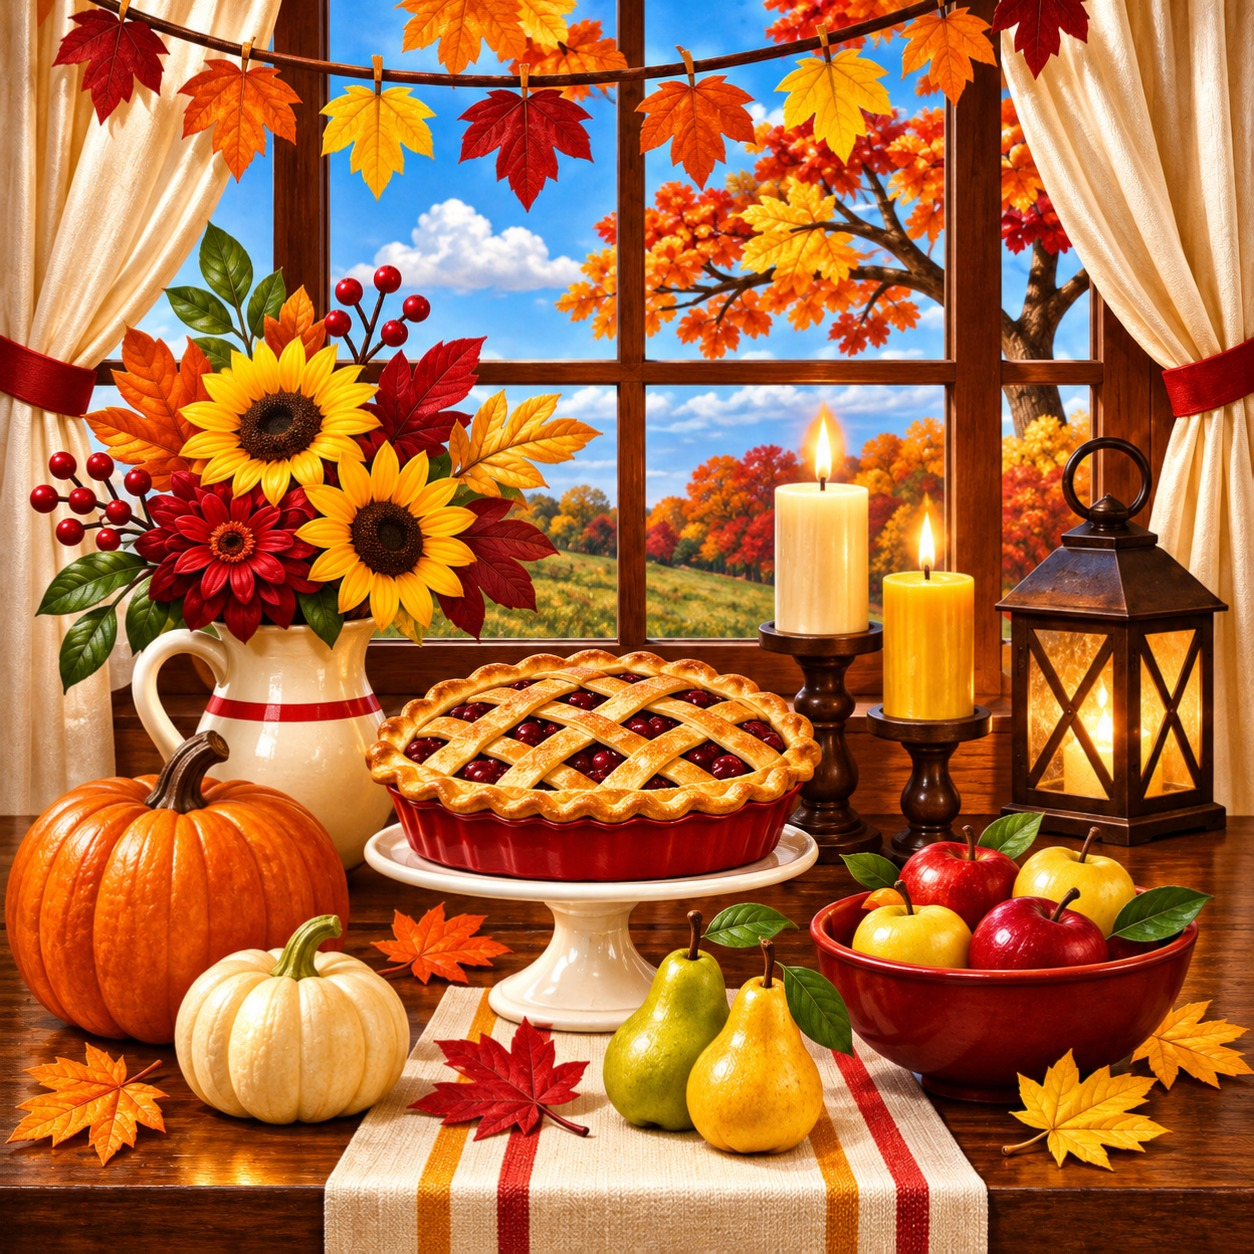
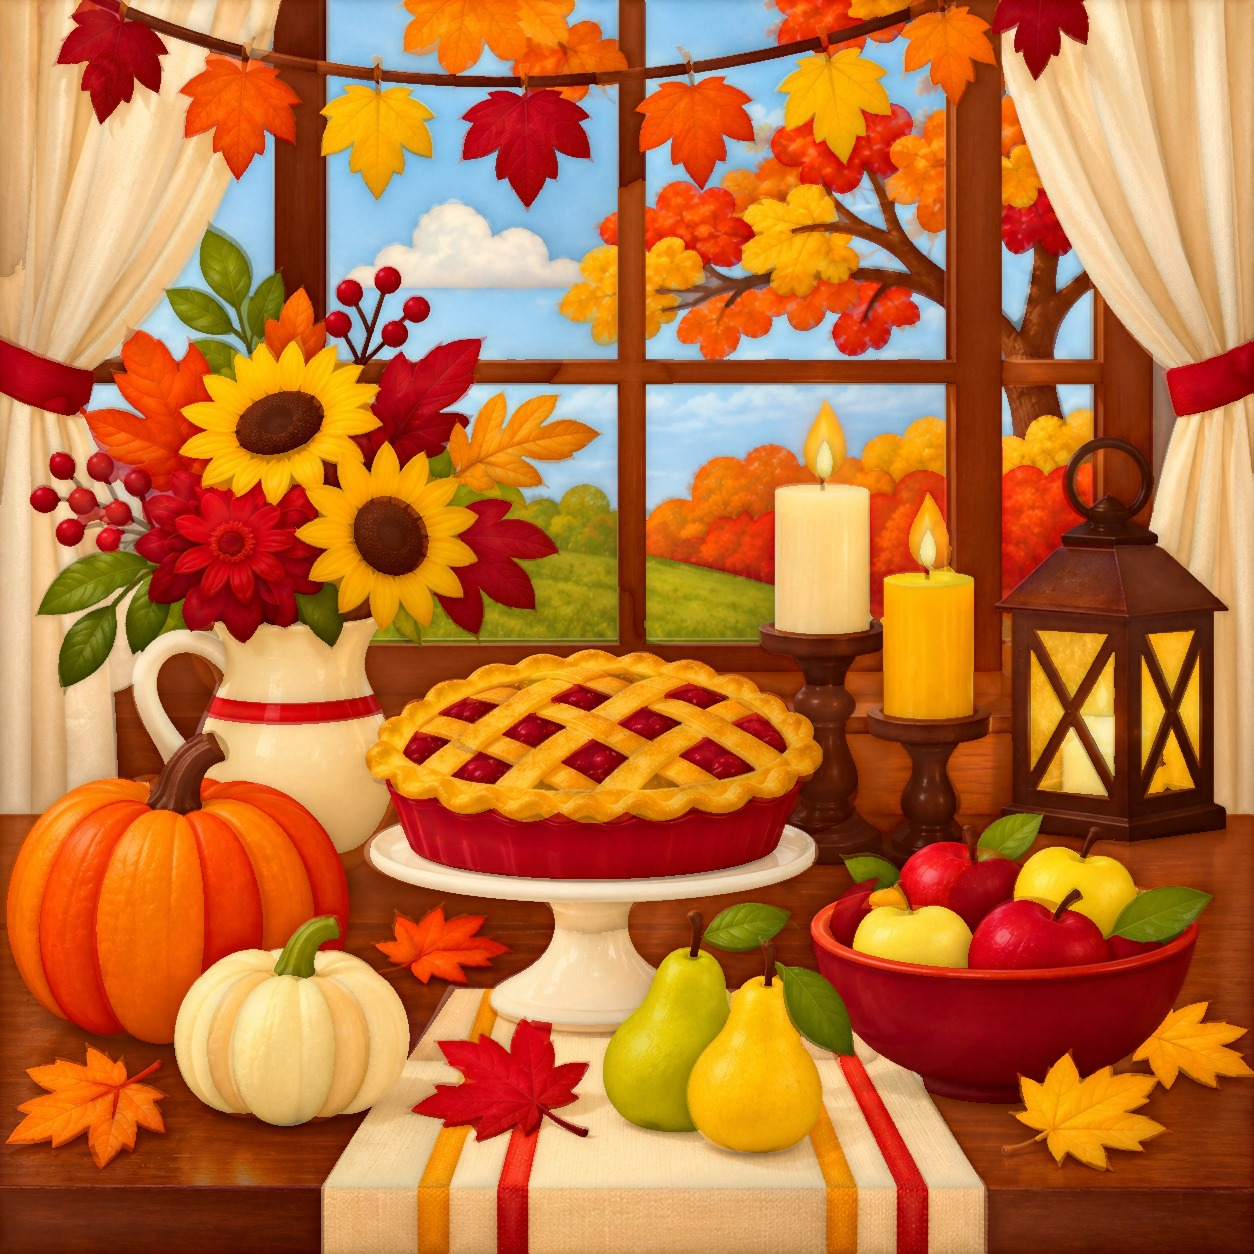
Thanksgiving Window: stronger shading mixed with the real repaint
shade_page.py gains --mix: blend some of the real repaint (kept in
pages/rich by rich_page.py) into the computed shading. Thanksgiving
Window uses --depth 1.45 --rich 1.25 --mix 0.35: mostly the rounded,
glowing shading, with a little painted texture. Pieces unchanged.

Claude-Session: https://claude.ai/code/session_01X4jKmC36k778ncv5ZPyc4q

diff --git a/tools/shade_page.py b/tools/shade_page.py
@@ -1,7 +1,7 @@
 #!/usr/bin/env python3
 """Paint depth into a flat-colour page: what a tap reveals becomes shaded and rich instead of flat.
 
-  python3 tools/shade_page.py <slug> [<slug> ...] [--depth 1.0] [--rich 1.0]
+  python3 tools/shade_page.py <slug> [<slug> ...] [--depth 1.0] [--rich 1.0] [--mix 0.35]
 
 For a page built by flat_page.py from flat art only. Reads the pieces (labels.png) and the flat picture
 (pages/src/<slug>-flat.*) and writes a new public/pages/<slug>/color.jpg in which every piece has:
@@ -17,6 +17,7 @@ R = os.path.dirname(os.path.dirname(os.path.abspath(__file__)))
 ap = argparse.ArgumentParser(); ap.add_argument('slugs', nargs='+')
 ap.add_argument('--depth', type=float, default=1.0, help='strength of the light and shadow')
 ap.add_argument('--rich', type=float, default=1.0, help='strength of the colour deepening')
+ap.add_argument('--mix', type=float, default=0.0, help='0-1: how much of the real repaint (pages/rich/<slug>.jpg, saved by rich_page.py) to blend into the shading')
 a = ap.parse_args()
 for slug in a.slugs:
     d = os.path.join(R, 'public', 'pages', slug)
@@ -56,6 +57,9 @@ for slug in a.slugs:
     rng = np.random.RandomState(7); grain = cv2.GaussianBlur(rng.randn(h, w).astype(np.float32), (0, 0), 0.8) * 5.0
     img = np.clip(img + grain[..., None], 0, 255)
     img = cv2.bilateralFilter(img.astype(np.uint8), 5, 12, 3)
+    rp = os.path.join(R, 'pages', 'rich', slug + '.jpg')
+    if a.mix > 0 and os.path.exists(rp):   # mostly the computed shading, with some of the repaint's real texture and light
+        img = cv2.addWeighted(img, 1 - a.mix, cv2.resize(cv2.imread(rp), (w, h)), a.mix, 0)
     cv2.imwrite(os.path.join(d, 'color.jpg'), img, [cv2.IMWRITE_JPEG_QUALITY, 92])
     line = cv2.imread(os.path.join(d, 'line.png'), cv2.IMREAD_GRAYSCALE)
     if line is not None:

diff --git a/tools/rich_page.py b/tools/rich_page.py
@@ -32,6 +32,7 @@ e = np.zeros((h, w), np.uint8); e[:, 1:] |= (lbl[:, 1:] != lbl[:, :-1]).astype(n
 ce = cv2.Canny(cv2.GaussianBlur(cv2.cvtColor(al, cv2.COLOR_BGR2GRAY), (0, 0), 1.5), 60, 160) > 0
 fit = 100 * ((cv2.dilate(ce.astype(np.uint8), np.ones((9, 9), np.uint8)) > 0) & (e > 0)).sum() / max(1, (e > 0).sum())
 cv2.imwrite(os.path.join(d, 'color.jpg'), al, [cv2.IMWRITE_JPEG_QUALITY, 92])
+os.makedirs(os.path.join(R, 'pages', 'rich'), exist_ok=True); cv2.imwrite(os.path.join(R, 'pages', 'rich', a.slug + '.jpg'), al, [cv2.IMWRITE_JPEG_QUALITY, 92])   # kept for shade_page.py --mix
 shutil.copy(a.rich, os.path.join(R, 'pages', 'src', a.slug + '-color' + os.path.splitext(a.rich)[1]))
 line = cv2.imread(os.path.join(d, 'line.png'), cv2.IMREAD_GRAYSCALE); blank = cv2.cvtColor(cv2.erode(line, np.ones((2, 2), np.uint8)), cv2.COLOR_GRAY2BGR)
 yy, xx = np.mgrid[0:h, 0:w].astype(np.float32); t = np.clip(((xx - 0.60 * w) + (yy - 0.5 * h) * 0.35) / (0.06 * w) + 0.5, 0, 1)[..., None]
